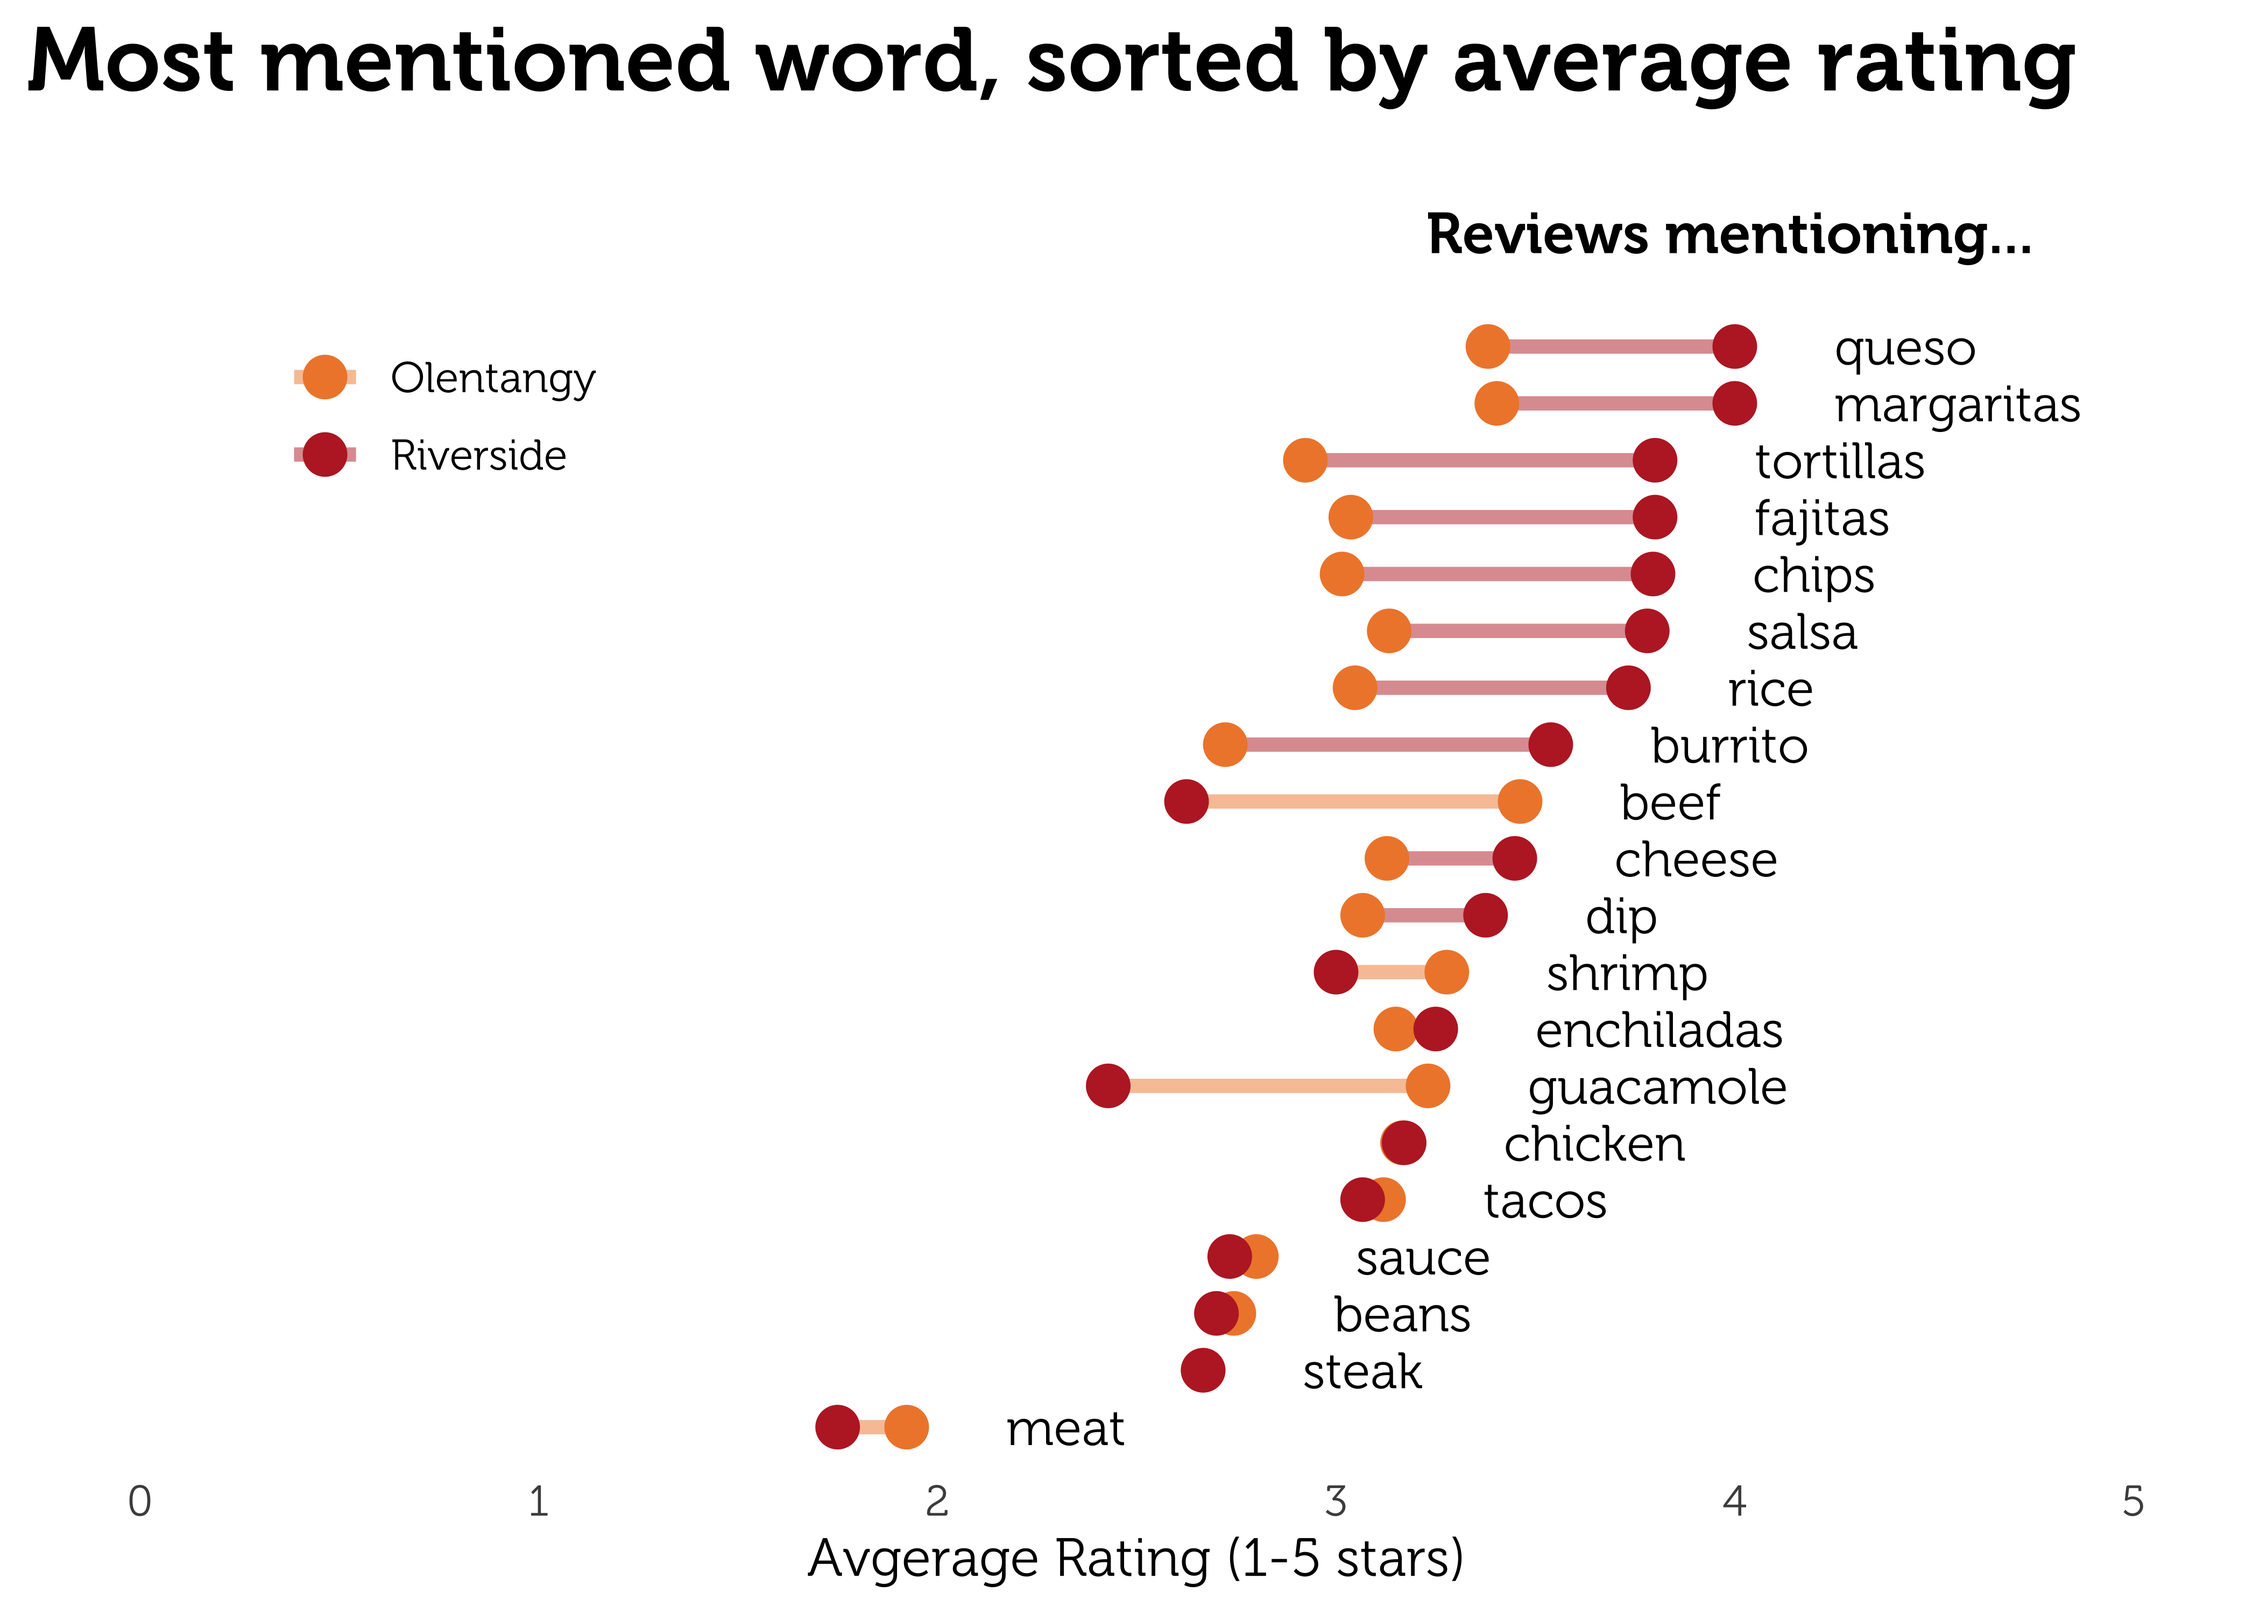
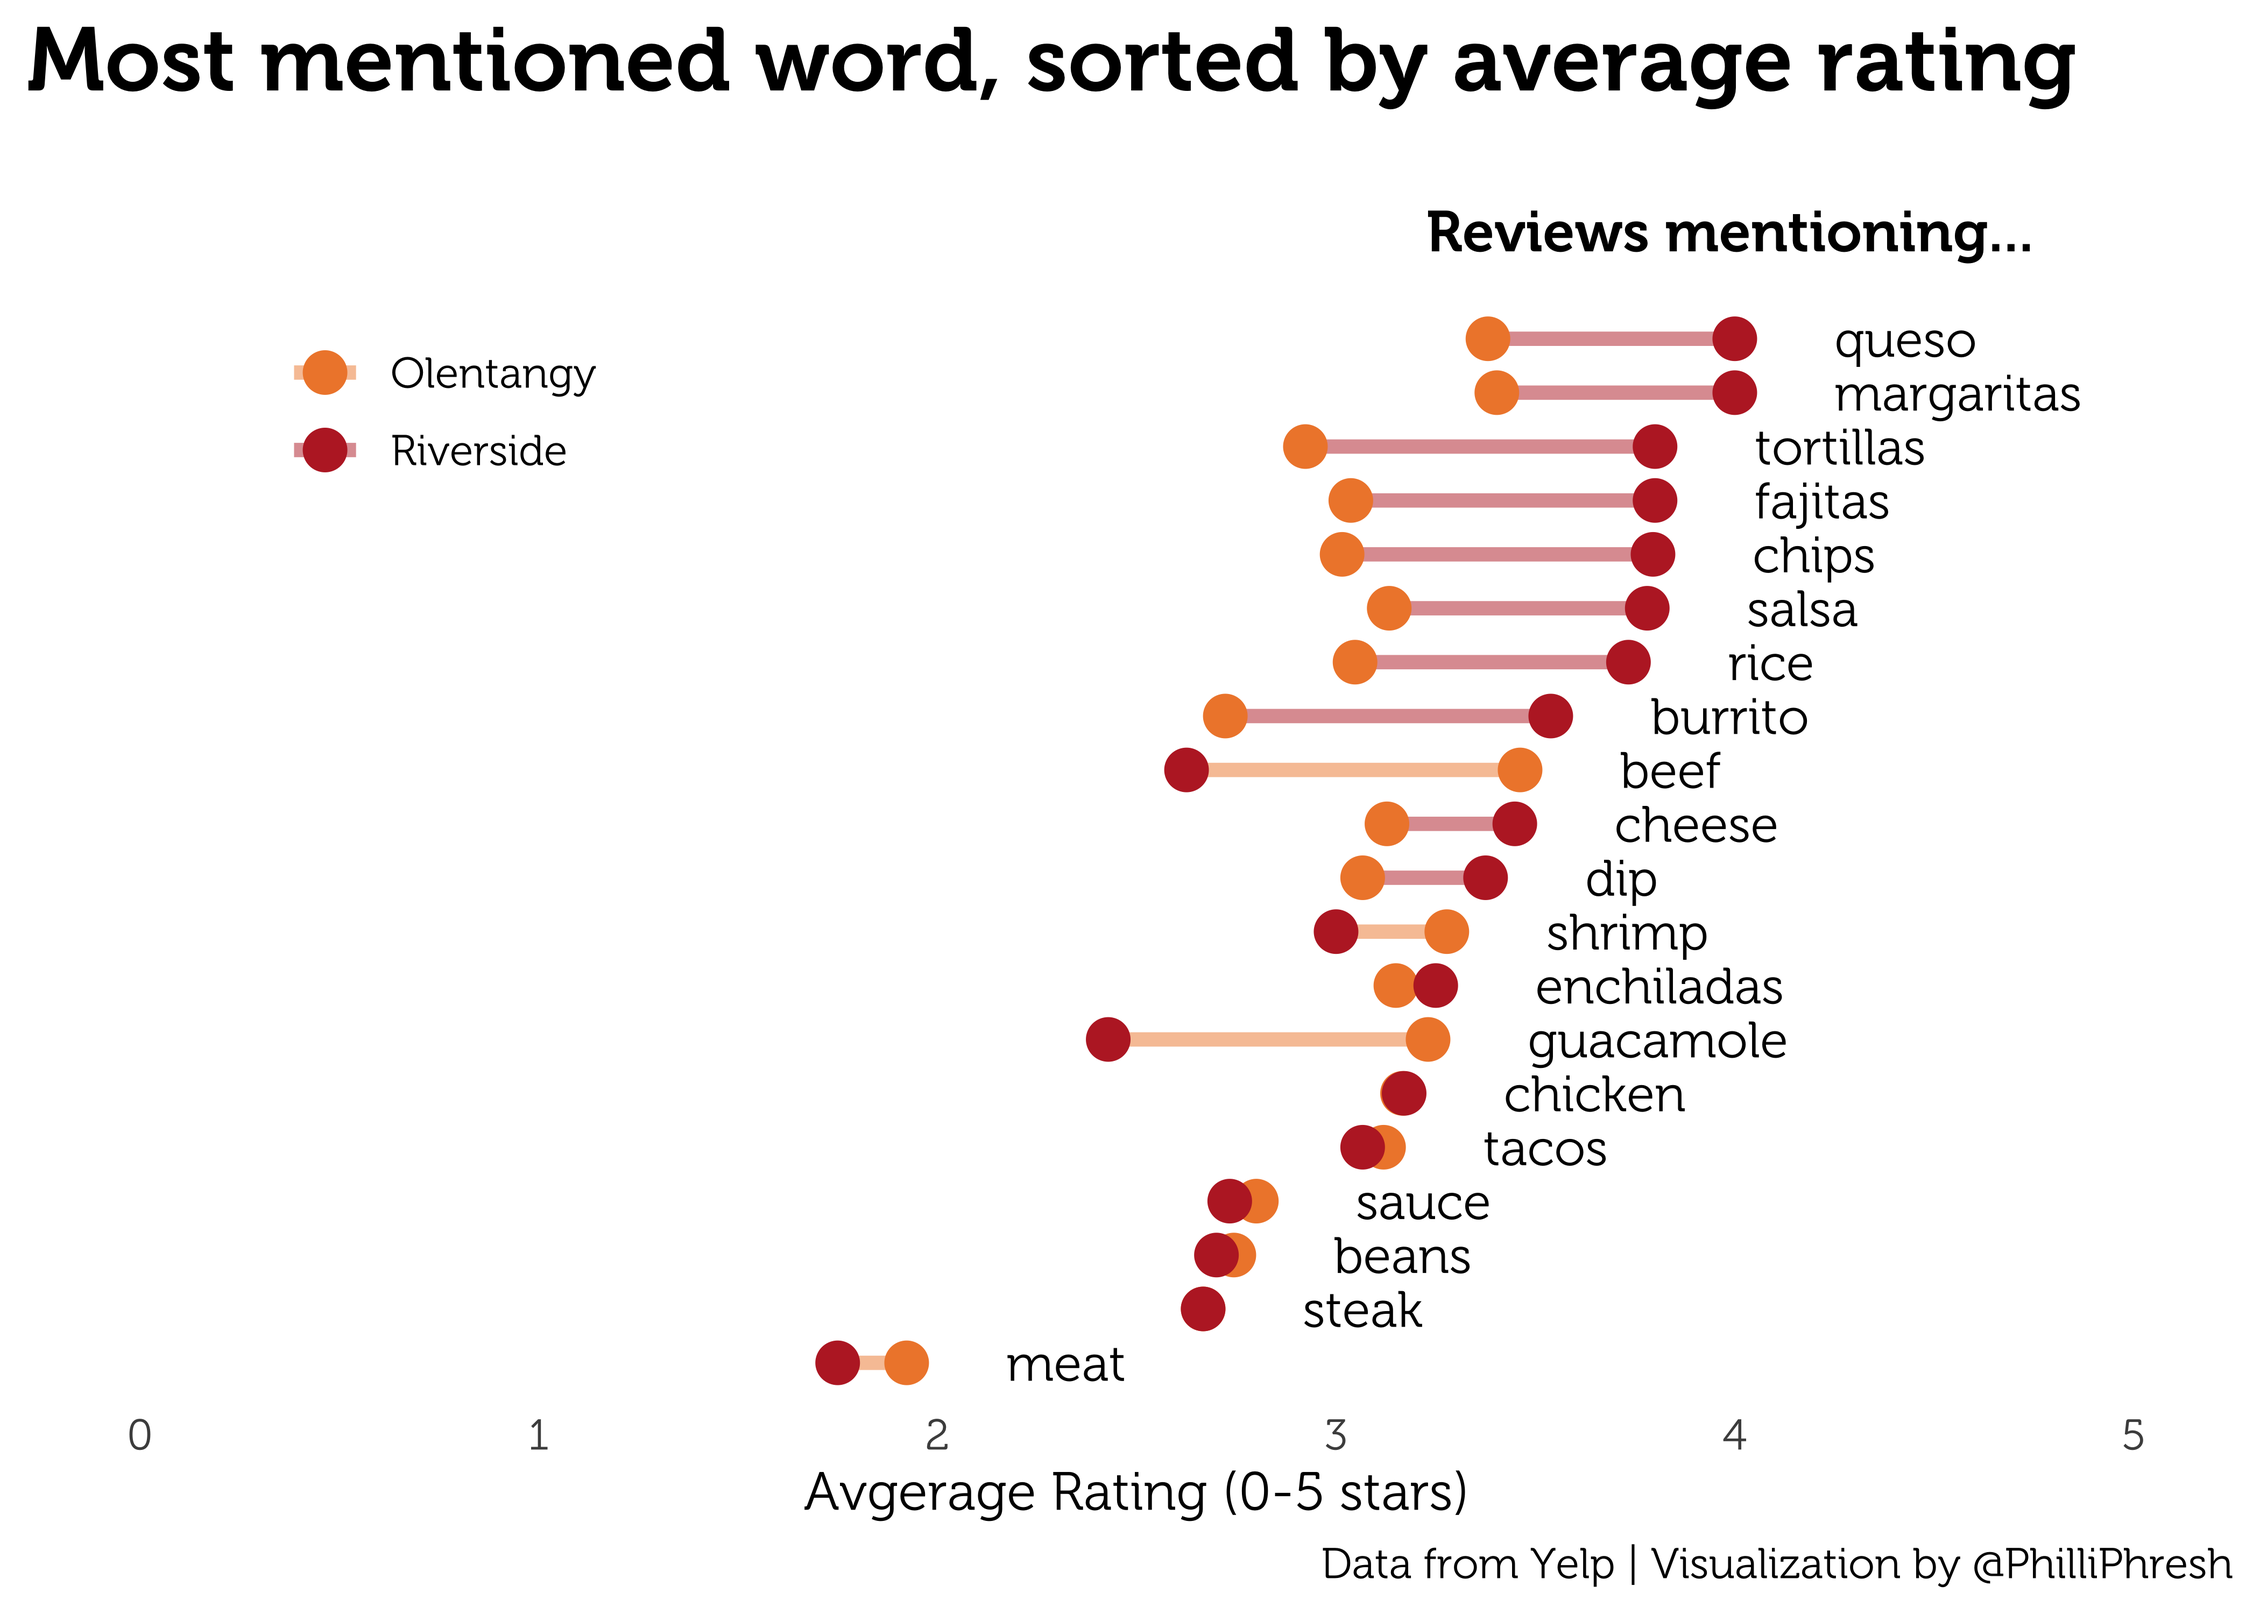
Added captions to plots, cleaned up plots, tried folding code chunks in quarto.

diff --git a/README.md b/README.md
@@ -35,7 +35,7 @@ el_vaq <-
 
 ## Quick data vizes
 
-Make the vizes pretty
+Make the vizes pretty.
 
 ``` r
 library(MetBrewer)
@@ -61,9 +61,13 @@ el_vaq %>%
   ggplot(aes(x = location, fill = ratings)) +
   geom_bar(position = "fill") +
   labs(title = "Distribution of star ratings",
-       x = NULL, y = NULL) +
+       x = NULL, y = NULL, fill = "Stars",
+       caption = "Data from Yelp | Visualization by @PhilliPhresh") +
   scale_y_continuous(labels = scales::label_percent()) +
-  scale_fill_manual(values = met.brewer("Tam", 5))
+  scale_fill_manual(values = met.brewer("Tam", 5)) +
+  theme(plot.caption.position = "plot",
+        panel.grid.major.x = element_blank(),
+        panel.grid.minor.y = element_blank())
 ```
 
 ![](README_files/figure-gfm/unnamed-chunk-4-1.png)
@@ -83,9 +87,12 @@ el_vaq %>%
   geom_col() + 
   labs(title = "Count of reviews by people from different locations",
        y = NULL, x = NULL, fill = NULL,
-       subtitle = "Olentangy has a lot more visitors outside of Ohio") +
+       subtitle = "Olentangy has a lot more visitors outside of Ohio",
+       caption = "Data from Yelp | Visualization by @PhilliPhresh") +
   scale_x_continuous(limits = c(-140, 140), labels = c("150", "100", "50", "0", "50", "100", "150")) +
-  theme(legend.position="bottom") +
+  theme(legend.position = "bottom",
+        plot.caption.position = "plot",
+        panel.grid.minor = element_blank()) +
   scale_fill_manual(values = met.brewer("Tam", 2))
 ```
 
@@ -101,9 +108,13 @@ el_vaq %>%
   geom_bar(position = "fill") +
   facet_wrap(~location, ncol = 1) +
   labs(title = "Distribution of star ratings",
-       x = NULL, y = NULL) +
+       x = NULL, y = NULL, fill = "Stars",
+       caption = "Data from Yelp | Visualization by @PhilliPhresh") +
   scale_y_continuous(labels = scales::label_percent()) +
-  scale_fill_manual(values = met.brewer("Tam", 5))
+  scale_fill_manual(values = met.brewer("Tam", 5)) +
+  theme(plot.caption.position = "plot",
+        panel.grid.major.x = element_blank(),
+        panel.grid.minor.y = element_blank())
 ```
 
 ![](README_files/figure-gfm/unnamed-chunk-6-1.png)
@@ -121,9 +132,14 @@ el_vaq %>%
   geom_bar(position = "fill") +
   facet_wrap(~location, ncol = 1) +
   labs(title = "Distribution of star ratings",
-       x = NULL, y = NULL) +
+       x = NULL, y = NULL,
+       caption = "Data from Yelp | Visualization by @PhilliPhresh",
+       fill = "Stars") +
   scale_y_continuous(labels = scales::label_percent()) +
-  scale_fill_manual(values = met.brewer("Tam", 2))
+  scale_fill_manual(values = met.brewer("Tam", 2)) +
+  theme(plot.caption.position = "plot",
+        panel.grid.major.x = element_blank(),
+        panel.grid.minor.y = element_blank())
 ```
 
 ![](README_files/figure-gfm/unnamed-chunk-7-1.png)
@@ -137,9 +153,11 @@ el_vaq %>%
   geom_bar(position = "fill") +
   facet_wrap(~review_location, ncol = 1) +
   labs(title = "Distribution of star ratings",
-       x = NULL, y = NULL) +
+       x = NULL, y = NULL,
+       caption = "Data from Yelp | Visualization by @PhilliPhresh") +
   scale_y_continuous(labels = scales::label_percent()) +
-  scale_fill_manual(values = met.brewer("Tam", 5))
+  scale_fill_manual(values = met.brewer("Tam", 5)) +
+  theme(plot.caption.position = "plot")
 ```
 
 ![](README_files/figure-gfm/unnamed-chunk-8-1.png)
@@ -283,11 +301,13 @@ el_vaq %>%
         panel.grid.major.x = element_blank(),
         panel.grid.minor.x = element_blank(),
         panel.grid = element_blank(),
-        axis.text.y = element_blank()) +
+        axis.text.y = element_blank(),
+        plot.caption.position = "plot") +
   labs(y = NULL,
-       x = "Avgerage Rating (1-5 stars)",
+       x = "Avgerage Rating (0-5 stars)",
        color = NULL,
-       title = "Most mentioned word, sorted by average rating") +
+       title = "Most mentioned word, sorted by average rating",
+       caption = "Data from Yelp | Visualization by @PhilliPhresh") +
   scale_color_manual(values = met.brewer("Tam", 2)) +
   coord_cartesian(ylim = c(1, 22)) +
   annotate(geom = "text", x = 4.75, y = 22, label = "Reviews mentioning...",
@@ -387,11 +407,13 @@ el_vaq %>%
         panel.grid.major.x = element_blank(),
         panel.grid.minor.x = element_blank(),
         panel.grid = element_blank(),
-        axis.text.y = element_blank()) +
+        axis.text.y = element_blank(),
+        plot.caption.position = "plot") +
   labs(y = NULL,
-       x = "Avgerage Rating (1-5 stars)",
+       x = "Avgerage Rating (0-5 stars)",
        color = NULL,
-       title = "Most mentioned word, sorted by average rating") +
+       title = "Most mentioned word, sorted by average rating",
+       caption = "Data from Yelp | Visualization by @PhilliPhresh") +
   scale_color_manual(values = met.brewer("Tam", 2)) +
   coord_cartesian(ylim = c(1, 22)) +
   annotate(geom = "text", x = 4.75, y = 22, label = "Reviews mentioning...",
